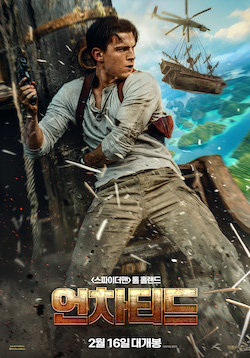
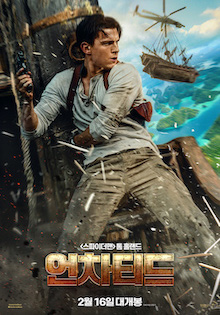
[MODIFY] 영화상세보기 수정

diff --git a/samgong/src/main/webapp/css/movie.css b/samgong/src/main/webapp/css/movie.css
@@ -2,7 +2,7 @@
 
 .fakeimg {
 	min-width: 200px;
-	max-width: 250px;
+	max-width: 220px;
 	margin: 20px;
 }
 @media screen and (min-width: 700px) {
@@ -14,8 +14,10 @@
 }
 .fakeimg:hover{
 	cursor: pointer;
-	background-color: pink;
 }
-botton{
+.botton{
 	margin-top: 20px;
+}
+.videowrapper{
+	margin: 80px;
 }

diff --git a/samgong/src/main/webapp/css/style.css b/samgong/src/main/webapp/css/style.css
@@ -102,8 +102,8 @@ ul, li {
 /* 사진넣을곳 */
 .fakeimg {
     background-color: #aaa;
-    min-width: 250px;
-    height: 300px;
+    min-width: 220px;
+    height: 315px;
     padding: 20px;
     border-radius: 0.5rem;
     /*포스터사진의 비율을 맞춰줍니다.*/
